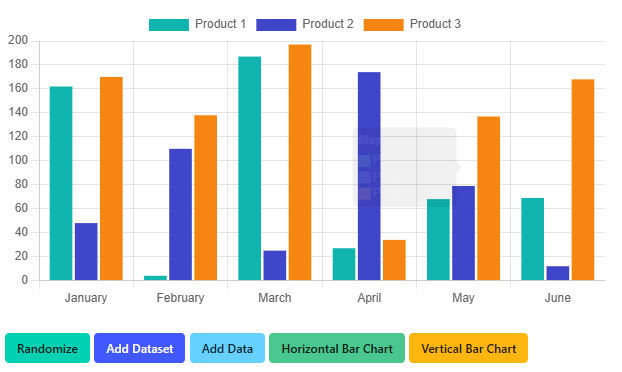
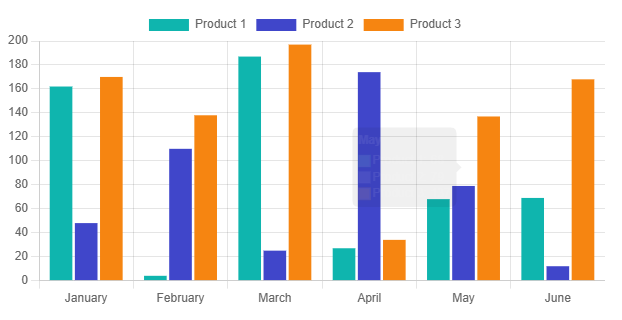
Update animation delays and CSS for image handling
Modified animation delays in BarChart demo for smoother transitions. Added CSS rules to set image width to auto. Updated several chart images with binary changes.

NOTE: This commit message is auto-generated using GitHub Copilot.

diff --git a/BlazorExpress.ChartJS.Demo.RCL/wwwroot/css/blazorexpress.chartjs.demo.rcl.css b/BlazorExpress.ChartJS.Demo.RCL/wwwroot/css/blazorexpress.chartjs.demo.rcl.css
@@ -79,6 +79,11 @@ h1:focus-visible {
     color: var(--bulma-text-weak);
 }
 
+/* img */
+.image img {
+    width: auto;
+}
+
 /* carbon ads */
 #carbonads {
     position: static;
